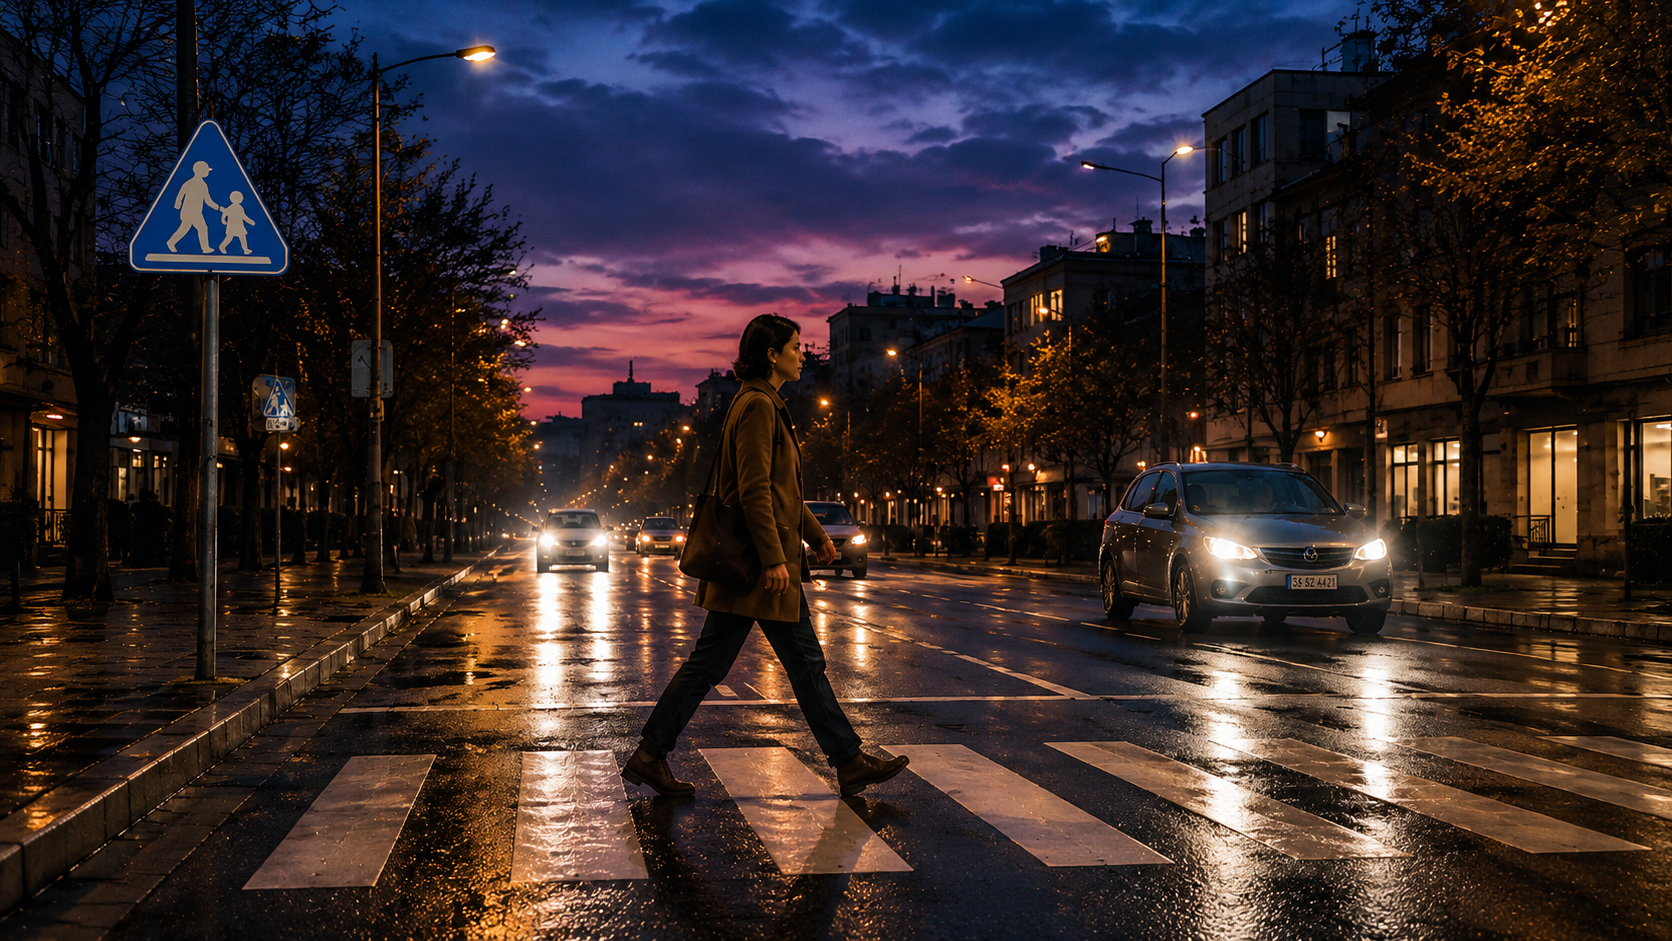
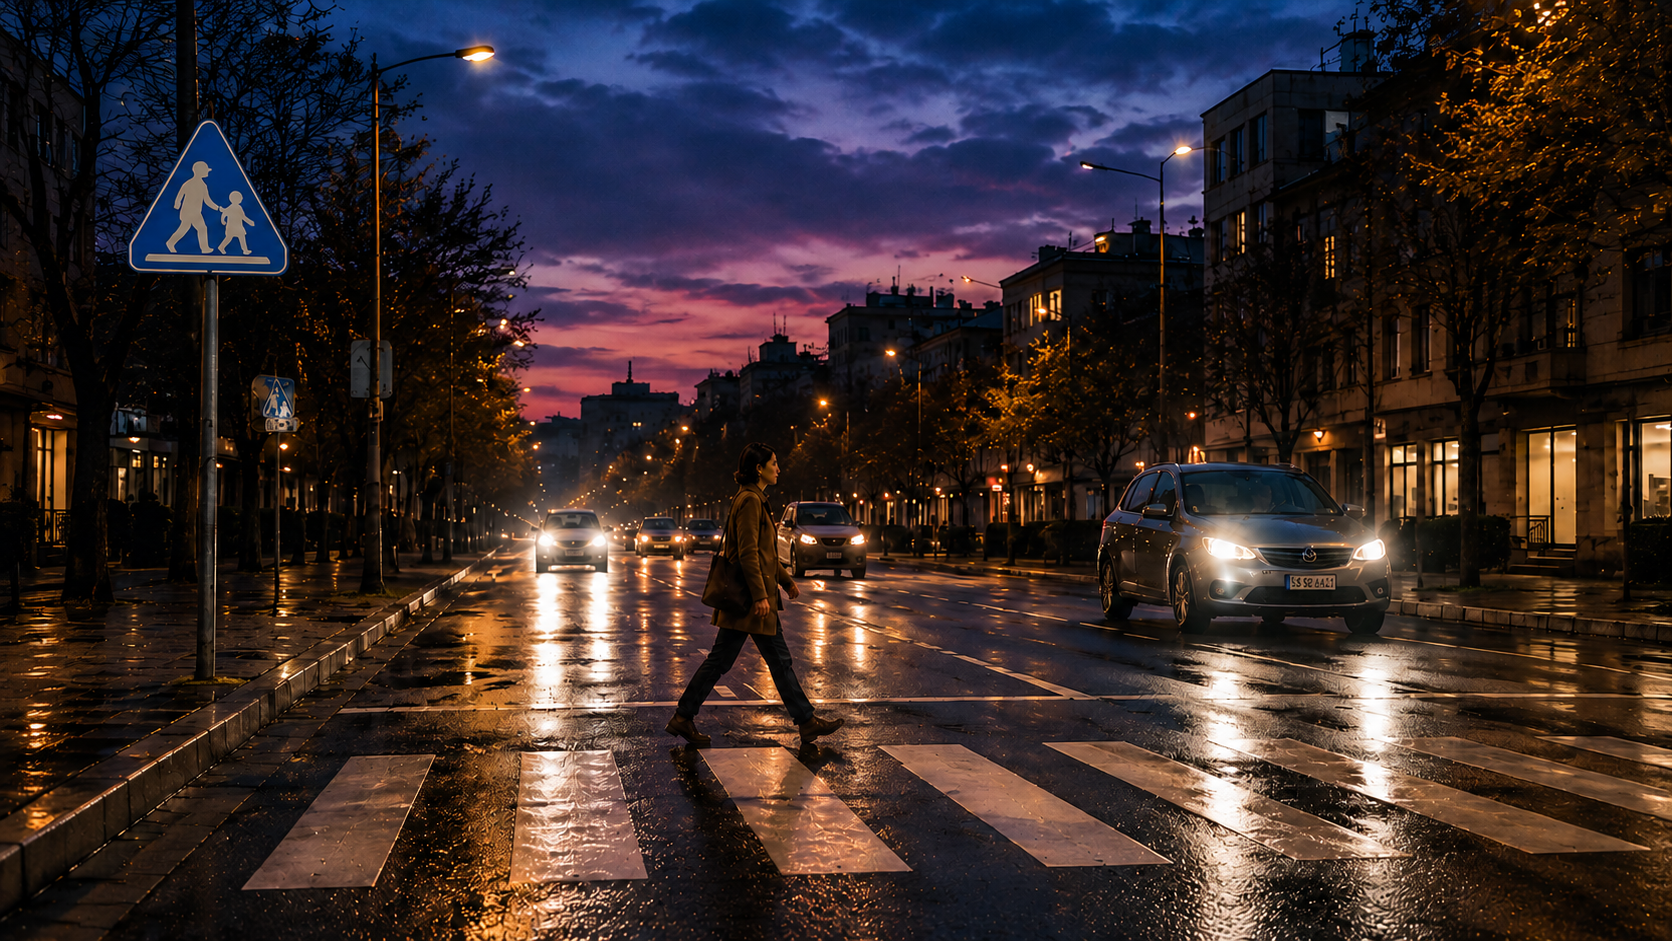
Add files via upload

diff --git a/index.html b/index.html
@@ -22,7 +22,7 @@ header{display:grid;grid-template-columns:1fr 2.4fr 1fr;gap:18px;align-items:cen
 .top{display:grid;grid-template-columns:260px minmax(0,1fr) 260px;gap:16px;padding:16px}
 .panel,.mainScene,.bottom{border:1px solid var(--line);background:linear-gradient(180deg,rgba(13,28,43,.94),rgba(7,18,29,.95));box-shadow:inset 0 0 0 1px rgba(255,255,255,.015);border-radius:13px}
 .panel{padding:18px}.step{display:flex;gap:10px;align-items:center;font-size:17px;font-weight:800}.dot{width:30px;height:30px;border-radius:50%;display:grid;place-items:center;background:var(--gold2);color:#121212;font-weight:900;flex:0 0 auto}.panel p{font-size:14px;line-height:1.8;color:#d0d5da}.scaleBox{margin-top:18px;background:rgba(255,255,255,.045);padding:14px;border-radius:7px}.scaleTitle{font-size:13px;color:#dce1e6;margin-bottom:13px}.scale{position:relative;padding-left:28px}.scale:before{content:"";position:absolute;left:9px;top:7px;bottom:8px;width:2px;background:linear-gradient(var(--green),var(--gold2),#ff9936,var(--red))}.level{position:relative;margin:0 0 18px;font-size:12px;color:#cdd3d9}.level:before{content:"";position:absolute;width:15px;height:15px;border-radius:50%;left:-26px;top:0;background:currentColor;box-shadow:0 0 10px currentColor}.level b{display:block;color:#fff;font-size:13px;margin-bottom:2px}.l1{color:var(--green)}.l2{color:#f7d14f}.l3{color:#ff9b32}.l4{color:var(--red)}
-.mainScene{position:relative;overflow:hidden;min-height:420px}.sceneWrap{position:absolute;inset:0;overflow:hidden}.sceneSvg{position:absolute;inset:0;width:100%;height:100%;display:block}.sceneImage{transition:filter .14s linear}.glareGroup{opacity:.06;transition:opacity .14s linear;mix-blend-mode:screen}.glareHalo{animation:glarePulse 2.6s ease-in-out infinite;transform-box:fill-box;transform-origin:center}.hazeRect{fill:#d3d6cd;opacity:0;transition:opacity .14s linear}.signOverlay{opacity:0;transition:opacity .18s ease;filter:brightness(1.65) contrast(1.35) saturate(1.28)}.signOutline{opacity:0;transition:opacity .18s ease;fill:none;stroke:#f5fbff;stroke-width:7;stroke-linejoin:round;filter:url(#signGlow)}.vignette{position:absolute;inset:0;pointer-events:none;box-shadow:inset 0 0 140px rgba(0,0,0,.42)}
+.mainScene{position:relative;overflow:hidden;min-height:420px}.sceneWrap{position:absolute;inset:0;overflow:hidden}.sceneSvg{position:absolute;inset:0;width:100%;height:100%;display:block}.sceneImage{transition:filter .14s linear}.glareGroup{opacity:.06;transition:opacity .14s linear;mix-blend-mode:screen}.glareHalo{animation:glarePulse 2.6s ease-in-out infinite;transform-box:fill-box;transform-origin:center}.hazeRect{fill:#d3d6cd;opacity:0;transition:opacity .14s linear}.signOverlay{opacity:0;transition:opacity .18s ease;filter:brightness(1.18) contrast(1.10) saturate(1.08)}.signOutline{opacity:0;transition:opacity .18s ease;fill:none;stroke:#f5fbff;stroke-width:4;stroke-linejoin:round;filter:url(#signGlow)}.vignette{position:absolute;inset:0;pointer-events:none;box-shadow:inset 0 0 140px rgba(0,0,0,.42)}
 @keyframes glarePulse{0%,100%{filter:brightness(.85)}50%{filter:brightness(1.2)}}
 .question{position:absolute;left:18px;top:16px;background:rgba(1,8,14,.68);backdrop-filter:blur(8px);padding:9px 13px;border-radius:8px;border:1px solid rgba(255,255,255,.14);font-weight:800}
 .sliderZone{padding:10px 18px 16px;background:#09141f;border-top:1px solid var(--line)}.visionValue{text-align:center;font-size:13px;margin-bottom:6px}.sliderRow{display:grid;grid-template-columns:120px 1fr 120px;align-items:center;gap:12px}.sideLbl{display:flex;align-items:center;gap:8px;font-size:13px;font-weight:800}.sideLbl.right{justify-content:flex-end}.eye{font-size:23px}.good{color:#a8df6b}.bad{color:#ff554c}.rangeWrap{position:relative}.rangeTrack{height:8px;border-radius:9px;background:linear-gradient(90deg,#8dd55b,#f1c649,#ff9b33,#f05b44);position:absolute;left:0;right:0;top:50%;transform:translateY(-50%)}input[type=range]{width:100%;position:relative;z-index:2;appearance:none;background:transparent}input[type=range]::-webkit-slider-thumb{appearance:none;width:22px;height:22px;border-radius:50%;background:#fff;box-shadow:0 1px 8px rgba(0,0,0,.7);cursor:pointer}.hint{text-align:center;color:#87929e;font-size:11px;margin-top:5px}
@@ -74,11 +74,11 @@ footer{display:grid;grid-template-columns:1fr;align-items:center;gap:18px;paddin
             <stop offset="100%" stop-color="#ffe38a" stop-opacity="0"/>
           </radialGradient>
           <filter id="signGlow" x="-80%" y="-80%" width="260%" height="260%">
-            <feGaussianBlur stdDeviation="6" result="blur"/>
+            <feGaussianBlur stdDeviation="2.2" result="blur"/>
             <feMerge><feMergeNode in="blur"/><feMergeNode in="SourceGraphic"/></feMerge>
           </filter>
           <clipPath id="signClip">
-            <path d="M212 118 L292 268 L132 268 Z"/>
+            <rect x="96" y="98" width="176" height="205" rx="16" ry="16"/>
           </clipPath>
         </defs>
         <image id="sceneImage" class="sceneImage" href="lumina_city_scene.png" x="0" y="0" width="1672" height="941" preserveAspectRatio="none"/>
@@ -95,7 +95,7 @@ footer{display:grid;grid-template-columns:1fr;align-items:center;gap:18px;paddin
         </g>
         <!-- Sign improvement: only the road sign is enhanced, not the whole scene -->
         <image id="signOverlay" class="signOverlay" href="lumina_city_scene.png" x="0" y="0" width="1672" height="941" preserveAspectRatio="none" clip-path="url(#signClip)"/>
-        <path id="signOutline" class="signOutline" d="M212 118 L292 268 L132 268 Z"/>
+        <rect id="signOutline" class="signOutline" x="96" y="98" width="176" height="205" rx="16" ry="16"/>
       </svg>
       <div class="vignette"></div>
       <div class="question" id="question">歩行者は、はっきり見えていますか？</div>
@@ -127,7 +127,7 @@ footer{display:grid;grid-template-columns:1fr;align-items:center;gap:18px;paddin
   <div class="improveGrid">
     <div class="improveCard"><h3>⌁ 照明を改善</h3><small>歩道や横断歩道を明るくする</small><div class="thumbs"><div class="thumb before"></div><div class="thumb after"></div></div><button data-key="light">照明を改善する</button></div>
     <div class="improveCard"><h3>◐ コントラストを改善</h3><small>横断歩道や輪郭のコントラストを高める</small><div class="thumbs"><div class="thumb before"></div><div class="thumb after"></div></div><button data-key="contrast">コントラストを改善する</button></div>
-    <div class="improveCard"><h3>◉ 標識を改善</h3><small>標識面の輝度・反射性・輪郭コントラストを高める</small><div class="thumbs"><div class="thumb before"></div><div class="thumb after"></div></div><button data-key="sign">標識を改善する</button></div>
+    <div class="improveCard"><h3>◉ 標識を改善</h3><small>標識を背景から少し見つけやすくする</small><div class="thumbs"><div class="thumb before"></div><div class="thumb after"></div></div><button data-key="sign">標識を改善する</button></div>
     <div class="compare"><div class="bigThumb" id="compareScene"></div></div>
   </div>
 </section>
@@ -143,7 +143,7 @@ footer{display:grid;grid-template-columns:1fr;align-items:center;gap:18px;paddin
    let blur=difficulty*2.5, contrast=1-difficulty*.43, brightness=1-difficulty*.19, saturate=1-difficulty*.18, g=.06+difficulty*1.35, hz=difficulty*.15;
    if(state.light){brightness+=.18;g*=.42} if(state.contrast){contrast+=.26;saturate+=.08}
    scene.style.filter=`blur(${blur.toFixed(2)}px) contrast(${contrast.toFixed(2)}) brightness(${brightness.toFixed(2)}) saturate(${saturate.toFixed(2)})`;
-   haze.style.opacity=Math.min(.26,hz*1.65).toFixed(3); glare.style.opacity=Math.min(1,g).toFixed(2); signOverlay.style.opacity=state.sign?'0.92':'0'; signOutline.style.opacity=state.sign?'0.72':'0'; txt.textContent=v;
+   haze.style.opacity=Math.min(.26,hz*1.65).toFixed(3); glare.style.opacity=Math.min(1,g).toFixed(2); signOverlay.style.opacity=state.sign?'0.46':'0'; signOutline.style.opacity=state.sign?'0.24':'0'; txt.textContent=v;
    q.textContent=v>75?'歩行者は、はっきり見えていますか？':v>50?'少し見つけにくくなっていませんか？':'同じ場所でも、見え方は大きく変わります。';
    let cf='brightness(1.04) contrast(1.07)'; if(state.light) cf+=' brightness(1.12)'; if(state.contrast) cf+=' contrast(1.16)'; compare.style.filter=cf;
  }
